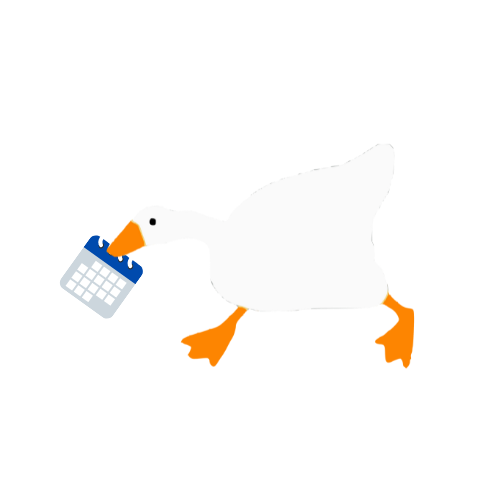
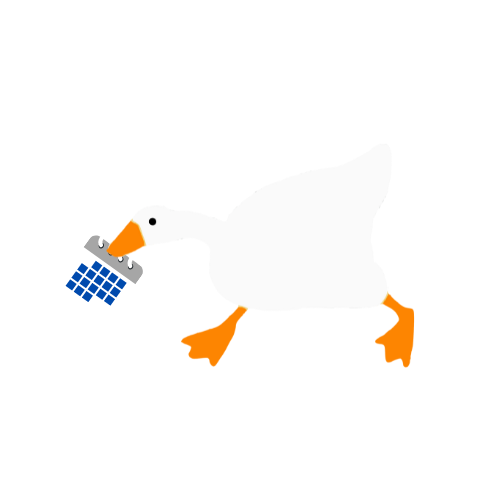
Change flocker goose colours

Changed region(s): [[0.12, 0.45, 0.3, 0.63]]

diff --git a/packages/frontend/src/views/HomeView/HomeView.module.css b/packages/frontend/src/views/HomeView/HomeView.module.css
@@ -33,13 +33,13 @@
 }
 
 .goose1 {
-  transform: rotate(200deg);
-  left: clamp(-100px, -15vw, 0px);
-  top: -10vh;
+  transform: rotate(220deg);
+  left: clamp(-120px, -10vw, 0px);
+  top: -15vh;
 }
 
 .goose2 {
   transform: rotate(30deg);
   right: clamp(-100px, -15vw, 0px);
-  bottom: -5vh;
+  bottom: -15vh;
 }
